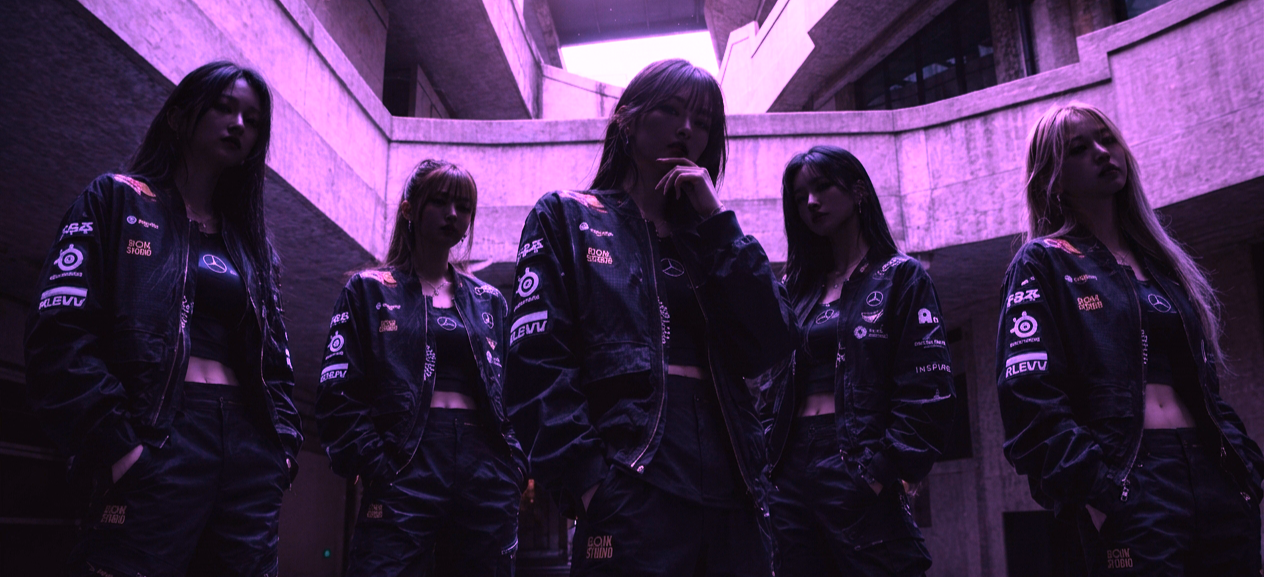
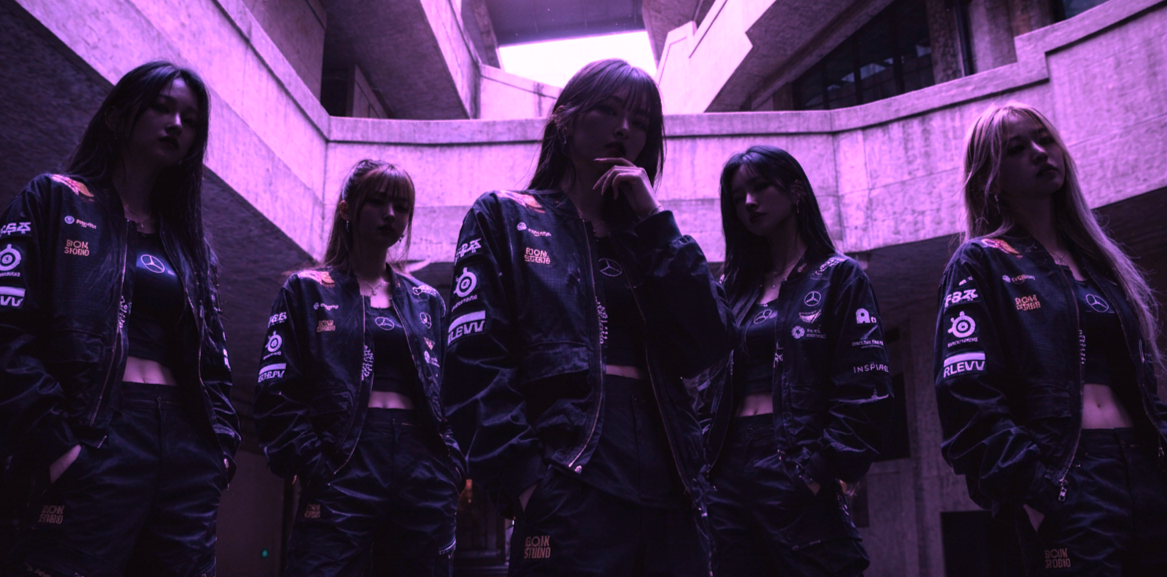
top complete

diff --git a/css/style.css b/css/style.css
@@ -14,6 +14,10 @@ body{
     background-color: #222222;
 }
 
+
+/* ----------------------------
+            ヘッダー
+--------------------------------*/
 .header{
     max-width: 100%;
     height: 85px;
@@ -50,12 +54,10 @@ body{
 }
 
 
-
 .list-logo-outer{
     text-align: center;
     margin-top: 0.3%;
 }
-
 
 .list-right-outer{
     width: 35%;
@@ -82,6 +84,10 @@ body{
 }
 
 
+
+/* ----------------------------
+            mv
+--------------------------------*/
 #mv{
     width: 100%;
     height: fit-content;
@@ -90,7 +96,7 @@ body{
 
 #mv-image{
     width: 100%;
-    height: 100%;
+    height: 750px;
     background-image: url(/img/mv.png);
     background-size: cover;
     position: absolute;
@@ -113,29 +119,39 @@ h1{
 
 
 
-
-
-.news_top{
-    margin-top: 800px;
-}
-
-
-
-
+/* ----------------------------
+            TOP共通
+--------------------------------*/
 .section_header{
     font-size: 48px;
     color: #8E34FD;
     font-family: "Goldman", sans-serif;
     font-weight: 500;
     font-style: normal;
+    margin-bottom: 15px;
 }
 
-.news_top{
-    margin-bottom: 200px;
-}
-
-.news_top h2{
+p{
+    font-size: 16px;
+    color:#F3F3F3;
+    font-family: "Noto Sans JP", sans-serif;
+    font-weight: 400;
+    font-style: normal;
     text-align: center;
+}
+
+
+
+/* ----------------------------
+            TOP_NEWS
+--------------------------------*/
+.news_top{
+    margin-top: 800px;
+    margin-bottom: 150px;
+
+    h2{
+    text-align: center;
+    }
 }
 
 hr{
@@ -147,10 +163,8 @@ hr{
 .top_news_line{
     width: 50%;
     margin: 0 auto;
-    margin-bottom: 76px;
+    margin-bottom: 53px;
 }
-
-
 
 .news_content{
     display: flex;
@@ -168,15 +182,6 @@ hr{
 .news_text_area{ 
     padding: 10px;
 
-    p{
-        font-size: 16px;
-        color:#F3F3F3;
-        font-family: "Noto Sans JP", sans-serif;
-        font-weight: 400;
-        font-style: normal;
-        text-align: center;
-    }
-
     .release{
         color:#8E34FD;
         margin-bottom: 10px;
@@ -185,6 +190,139 @@ hr{
 
 
 
+
+
+/* ----------------------------
+            TOP_MEMBER
+--------------------------------*/
+.member_top{
+    width: 1200px;
+    margin: 0 auto;
+    margin-bottom: 150px;
+
+    h2{
+    margin-left: 50px;
+    }
+}
+
+.top_member_line{
+    width: 70%;
+    margin-bottom: 53px;
+}
+
+.member_content {
+
+    img{
+        margin-bottom: 30px;
+        border: 2px solid #8E34FD;
+    }
+
+    p{
+        margin-bottom: 30px;
+    }
+}
+
+.member_btn{
+    display: flex;
+    justify-content: right;
+    margin-right: 50px;
+}
+
+
+
+/* ----------------------------
+            TOP_ABOuT
+--------------------------------*/
+.about_top{
+    width: 1200px;
+    margin: 0 auto;
+    margin-bottom: 150px;
+
+    h2{
+        text-align: right;
+        margin-right: 50px;
+    }
+}
+
+.top_about_line{
+    width: 56%;
+    margin-bottom: 53px;
+    margin-left: auto;
+}
+
+.about_content{
+    display: flex;
+
+    .about_right{
+        padding: 48px;
+
+        p{
+            margin-bottom: 50px;
+
+            span{
+                color: #8E34FD;
+            }
+        }
+    }
+}
+
+.member_btn{
+    display: flex;
+    justify-content: center;
+}
+
+
+
+
+/* ----------------------------
+            TOP_FANCLUB
+--------------------------------*/
+.fanclub_top{
+    width: 1200px;
+    margin: 0 auto;
+    margin-bottom: 150px;
+
+
+    h2{
+        text-align: left;
+        margin-left: 50px;
+    }
+}
+
+.top_fanclub_line{
+    width: 66%;
+    margin-bottom: 53px;
+}
+
+.fanclub_content{
+    display: flex;
+}
+
+.fanclub_left{
+    padding: 42px;
+
+    p{
+        margin-bottom: 50px;
+        span{
+            color: #8E34FD;
+        }
+    }
+}
+
+
+
+.fanclub_btn{
+    display: flex;
+    justify-content: center;
+}
+
+
+
+
+
+/* ----------------------------
+                btn
+--------------------------------*/
 .btn_area{
     text-align: center;
 }
@@ -195,7 +333,7 @@ hr{
     top: 0;
     left: 0;
     background: #222222;
-    padding: 25px 35px;
+    padding: 20px 35px;
     min-width: 200px;
     display: inline-block;
     text-decoration: none;
@@ -238,7 +376,7 @@ hr{
 
 
 /* ----------------------------
-
+                cube
 --------------------------------*/
 .cube-area {
     background-color: #222222;

diff --git a/index.html b/index.html
@@ -57,7 +57,7 @@
     </div>
 
 
-    <div class="news_top">
+    <section class="news_top">
         <h2 class="section_header">NEWS</h2>
         <hr class="top_news_line"></hr>
 
@@ -94,7 +94,71 @@
         <div class="btn_area">
             <a href="#" class="explore_btn"><span class="explore_text">MORE</span></a>
         </div>
-    </div>
+    </section>
+
+
+    <section class="member_top">
+        <h2 class="section_header">MEMBER</h2>
+        <hr class="top_member_line"></hr>
+
+        <div class="member_content">
+            <img src="/img/top-member.png" width="1200" height="484">
+            <p>Purple Infectionのメンバーはあらゆるシーンを代表するリーディングプレイヤーであり、世界の舞台で活躍するメンバーが在籍しています。</p>
+        </div>
+
+        <div class="member_btn">
+            <div class="btn_area">
+                <a href="#" class="explore_btn"><span class="explore_text">MORE</span></a>
+            </div>
+        </div>
+    </section>
+
+
+    <section class="about_top">
+        <h2 class="section_header">ABOUT</h2>
+        <hr class="top_about_line"></hr>
+
+        <div class="about_content">
+            
+            <div class="about_left">
+                <img src="/img/top-about.png" width="750" height="433" >
+            </div>
+
+            <div class="about_right">
+                <p><span>Purple Infection</span>は、Purple Infection<br>株式会社により、2023年4月に発足した<br>プロゲーミングチームです。<br><br>「Shadowverse」部門、「Apex Legends」部門、「Street Fighter」部門、「Fortnite」部門、<br>「ストリーマー」部門の5部門を設立し、<br><br>女性選手のeスポーツ発展を目的として競技活動やイベント活動を行っております。</p>
+
+                <div class="about_btn">
+                    <div class="btn_area">
+                        <a href="#" class="explore_btn"><span class="explore_text">MORE</span></a>
+                    </div>
+                </div>
+            </div>
+        </div>
+    </section>
+
+
+
+    <section class="fanclub_top">
+        <h2 class="section_header">ABOUT</h2>
+        <hr class="top_fanclub_line"></hr>
+
+        <div class="fanclub_content">
+            
+            <div class="fanclub_left">
+                <p>Purple Infection FAN CLUBは、<br>会員限定の特典や最新情報をお届けする<br>公式ファンクラブです。<br><br>限定コンテンツや配信への参加、オフライン<br>イベントへの招待など、ここでしか味わえない<br>特別な体験をお楽しみいただけます。<br><br>STANDARD・PREMIUM・ONLY WOMANの3つのプランで、あなたに合った応援スタイルを見つけられます。</p>
+
+                <div class="fanclub_btn">
+                    <div class="btn_area">
+                        <a href="#" class="explore_btn"><span class="explore_text">MORE</span></a>
+                    </div>
+                </div>
+            </div>
+
+            <div class="fanclub_right">
+                <img src="img/top-fanclub.png" width="723" height="433">
+            </div>
+        </div>
+    </section>
 
 
 
